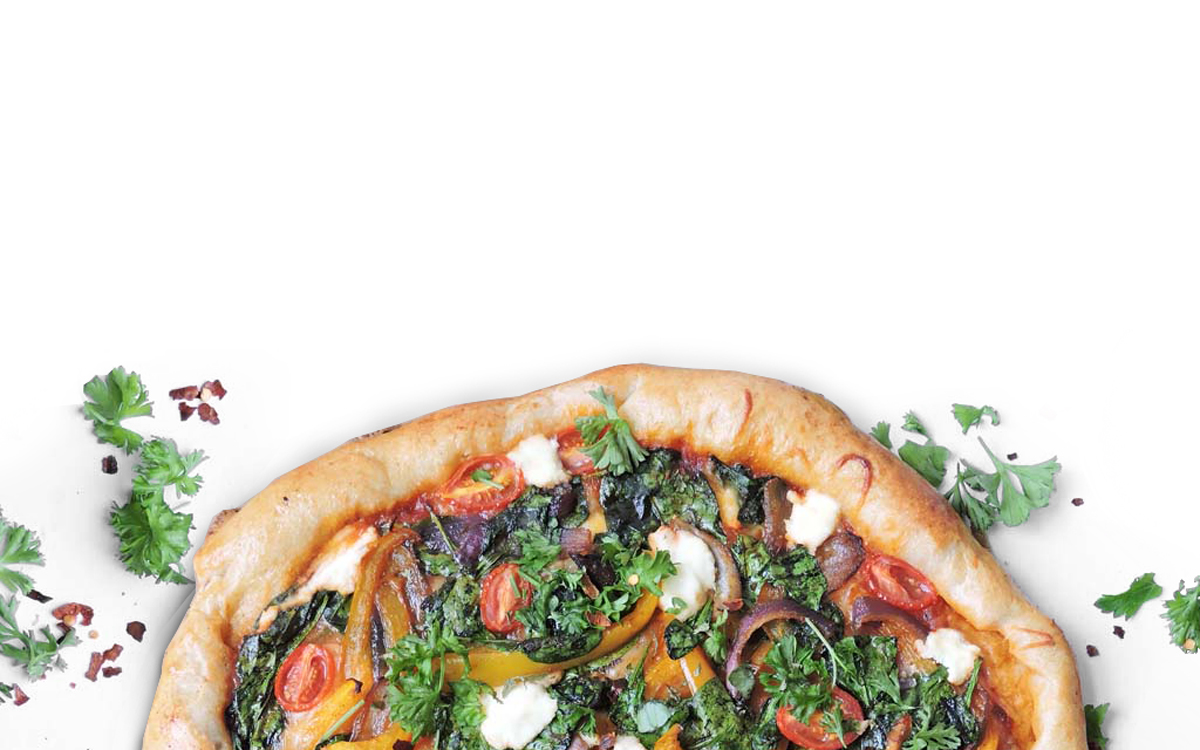
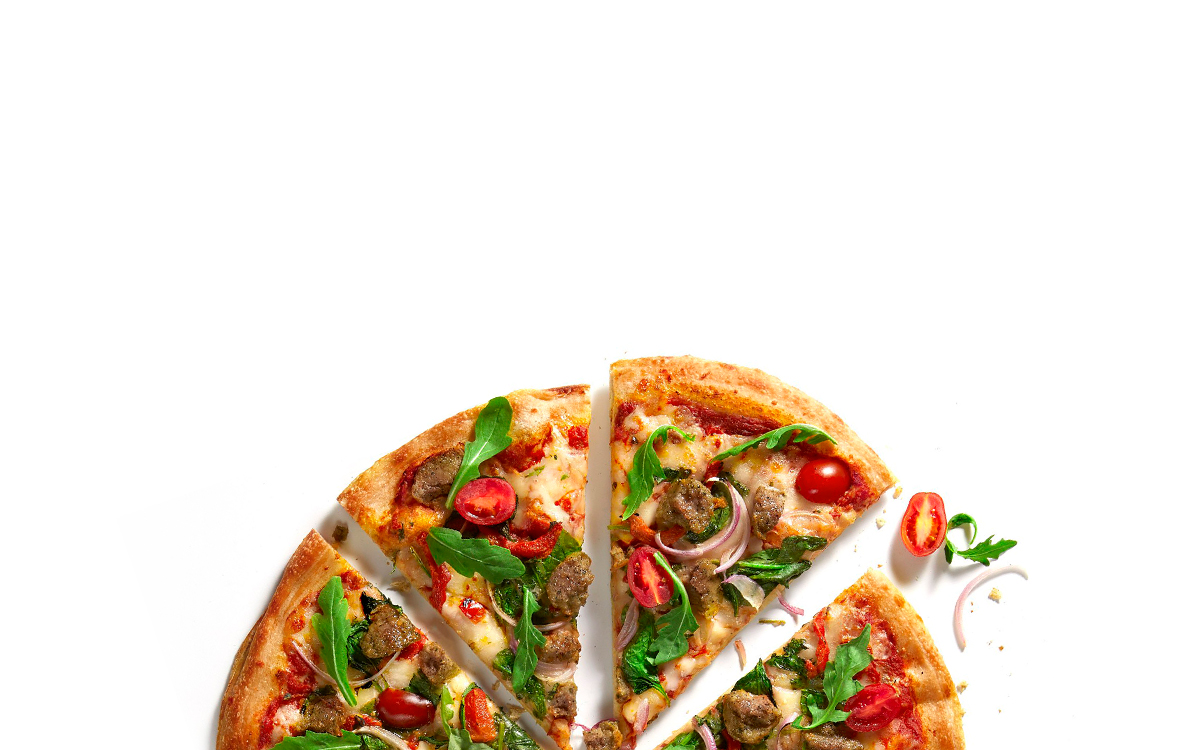
reducer cleanup, update hero

diff --git a/src/modules/pizzas.js b/src/modules/pizzas.js
@@ -7,17 +7,17 @@ const CHOOSE_CRUST = "CHOOSE_CRUST";
 
 // Action creators
 
-const chooseSize = (sizeId) => {
+const chooseSize = (id) => {
   return {
     type: CHOOSE_SIZE,
-    sizeId,
+    id,
   };
 };
 
-const chooseCrust = (crustId) => {
+const chooseCrust = (id) => {
   return {
     type: CHOOSE_CRUST,
-    crustId,
+    id,
   };
 };
 
@@ -29,28 +29,26 @@ const initialState = {
   pizzaList,
 };
 
+const setSelection = (array, id) => {
+  const newArray = array.concat();
+  newArray.forEach((item) => {
+    if (item.id === id) {
+      item["active"] = true;
+    } else {
+      item["active"] = false;
+    }
+  });
+  return newArray;
+};
+
 const pizzas = (state = initialState, action) => {
   switch (action.type) {
     case CHOOSE_SIZE:
-      let newPizzaSizeState = state.pizzaSize.concat();
-      if (action.sizeId === 1) {
-        newPizzaSizeState[0]["active"] = true;
-        newPizzaSizeState[1]["active"] = false;
-      } else {
-        newPizzaSizeState[0]["active"] = false;
-        newPizzaSizeState[1]["active"] = true;
-      }
-      return { ...state, pizzaSize: newPizzaSizeState };
+      const newPizzaSize = setSelection(state.pizzaSize, action.id);
+      return { ...state, pizzaSize: newPizzaSize };
     case CHOOSE_CRUST:
-      let newCrustTypeState = state.crustType.concat();
-      if (action.crustId === 1) {
-        newCrustTypeState[0]["active"] = true;
-        newCrustTypeState[1]["active"] = false;
-      } else {
-        newCrustTypeState[0]["active"] = false;
-        newCrustTypeState[1]["active"] = true;
-      }
-      return { ...state, crustType: newCrustTypeState };
+      const newCrustType = setSelection(state.crustType, action.id);
+      return { ...state, crustType: newCrustType };
     default:
       return state;
   }

diff --git a/src/App.scss b/src/App.scss
@@ -15,7 +15,7 @@ body {
 .hero {
   background-image: url("images/hero-final.jpg"); /* The image used */
   background-color: #cccccc; /* Used if the image is unavailable */
-  height: calc(100vh - 58px); /* You must set a specified height */
+  height: calc(100vh - 56px); /* You must set a specified height */
   background-position: center; /* Center the image */
   background-repeat: no-repeat; /* Do not repeat the image */
   background-size: cover;

diff --git a/src/components/Order.js b/src/components/Order.js
@@ -162,7 +162,6 @@ const Order = ({
 };
 
 const mapStateToProps = (state) => {
-  console.log(state.pizzas.crustType);
   return {
     pizzaSize: state.pizzas.pizzaSize,
     crustType: state.pizzas.crustType,
